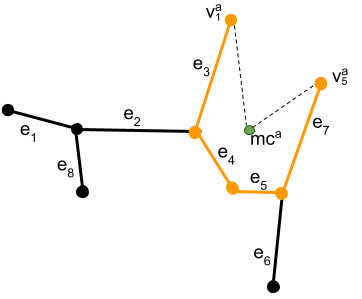
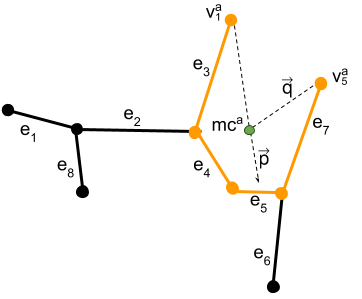
3.2.4 terminada, pero criterio de desplazamiento puede necesitar revision

diff --git a/modelo.tex b/modelo.tex
@@ -80,6 +80,8 @@ Se ha establecido en la secci\'on \ref{sec:OptiMethods} que una red de filamento
 %comportamiento de las hormigas se puede asemejar a la forma en que los filamentos fueron creciendo o decreciendo.
 La b\'usqueda de conjuntos de aristas adyacentes para individualizar uno o m\'as filamentos implica examinar un espacio de soluciones que no es posible de recorrer en tiempo polinomial, dado que sin restricciones las combinaciones crecen exponencialmente\cite{buchin2007number}\cite{biswas2012hamiltonian}. La metaheur\'istica ACO permite en sus distintas etapas (Construcci\'on de soluci\'on, b\'usqueda no local, actualizaci\'on de feromonas) incorporar informaci\'on que puede acotar el espacio de b\'usqueda. En el caso de la individualizaci\'on de filamentos, las diversas caracter\'isticas asociadas a las aristas, as\'i como las caracter\'isticas que definen el comportamiento global de un filamento permiten realizar esta tarea. 
 
+%En relaci\'on a los dominios $D_i$ declarados en la definici\'on del modelo de un COP, se destaca que en el caso de la individualizaci\'on de filamentos existe solo $D_1 \in D$, ya que la instanciaci\'on de variables ($X_i = v_{i}^{j}$ o $c_{ij}$) tiene una sola asignaci\'on posible, lo que lleva a una simplificaci\'on del componente $j$ en las ecuaciones presentadas.
+
 \subsection{Inicializaci\'on de la metaheur\'istica ACO}
 
 En el paso de inicializaci\'on de ACO se deben definir los valores de los par\'ametros relacionados a las heur\'isticas y de las feromonas utilizadas. Una de las caracter\'isticas m\'as relevantes para discriminar aristas en el proceso de construcci\'on corresponde al \'angulo que forman 2 aristas adyacentes.
@@ -206,7 +208,7 @@ Por \'ultimo en este aspecto, y a diferencia del uso tradicional de feromonas o 
 
 %Existen $N + 1$ segmentos en $s$ si la soluci\'on contiene $N$ elementos $c_{ij} \in ]\theta, 90]$ (de calidad intermedia). 
 Lo anterior permite definir que la penalizaci\'on de $\tau_{ij}$ este asociada a la arista $c_{ij}$ y al segmento que precede a $c_{ij}$ en el recorrido de una hormiga $a$. El segmento que precede a $c_{ij}$ en un camino $s$ se define como $seg^{a}_{prev}$. Adicionalmente, se tiene que entre distintos caminos pueden existir segmentos equivalentes, lo que sucede en el caso de que contengan las mismas aristas. Esto permite que se refieran al mismo valor $\tau_{ij}$ a pesar de los nombres relativos al camino al que pertenecen. El funcionamiento del m\'etodo de penalizaci\'on propuesto se visualiza en la Figura \ref{fig:segmentComplexCase}.
- \begin{figure*}[ht]
+ \begin{figure*}[t!]
     \centering
     \begin{subfigure}[t]{0.48\textwidth}
         \centering
@@ -262,7 +264,7 @@ Para subsanar aquel caso, a los segmentos de s\'olo una arista se le a\~naden la
 %explicar q la penalizacion es solo necesaria en soluciones de calidad intermedia
 
 
- \begin{figure*}[ht]
+ \begin{figure*}[t]
     \centering
     \begin{subfigure}[t]{0.48\textwidth}
         \centering
@@ -309,7 +311,10 @@ La anti-feromona se aplica sobre hormigas que han finalizado su recorrido, cuya 
 El an\'alisis adicional se separa en evaluaciones comunes que no dependen de la c\'elula observada, agregando posteriormente las evaluaciones particulares. El conjunto de evaluaciones comunes consisten en evaluar la curvatura del recorrido, como tambi\'en la magnitud del desplazamiento entre la proyecci\'on de un segmento con respecto a un segmento adyacente. La evaluaci\'on particular se ejecuta si la c\'elula es una neurona, debido a que se requiere de una verificaci\'on particular, validando que la finalizaci\'on del recorrido no sea en una arista con uno de sus nodos con grado 1. Es decir, esta arista final no debe cumplir con el primer criterio de la heur\'istica de asignaci\'on de aristas iniciales, descrita en la secci\'on \ref{subsubsec:antTourInit}.
 
 
-La curvatura del recorrido de una hormiga $a$ es el \'angulo formado por el nodo inicial ($v^{a}_1$), el centro de masa de la misma hormiga ($mc^{a}$) y el nodo final ($v^{a}_n$). Este \'angulo no debe superar el umbral definido al multiplicar el \'angulo $\theta$ por el factor {\it Max\_Axial\_Displacement}. Este factor permite flexibilizar la tolerancia de la curvatura en base a $\theta$. Si el recorrido de la hormiga tiene un \'angulo igual o mayor al umbral, implica que la soluci\'on encontrada es demasiado curva para representar un filamento, por lo que es penalizada y descartada. Un ejemplo se puede observar en la Figura \ref{fig:antCurvCase}, con el camino formado por las aristas $e_3$, $e_4$, $e_5$ y $e_7$, que presenta una curvatura muy marcada, por lo que es penalizado y descartado. La actualizaci\'on del valor de $\tau_{ij}$ mediante el criterio de curvatura se refleja en la ecuaci\'on \eqref{eq:antiPheroSAP_Angle}.
+La curvatura del recorrido de una hormiga $a$ se obtiene al calcular el \'angulo entre la proyecci\'on de un vector con respecto a otro. Estos vectores, definidos como $\Vec{p}$ y $\Vec{q}$, se generan a partir del nodo inicial del camino, $v^{a}_1$, el centro de masa de la misma hormiga, $mc^{a}$, y el nodo final, $v^{a}_n$. Corresponden a $\Vec{p}$ los 2 primeros elementos menciondos, mientras que para $\Vec{q}$ son los 2 \'ultimos.  
+
+
+El \'angulo entre la proyecci\'on de $\Vec{p}$  y $\Vec{q}$ no debe superar el umbral definido al multiplicar el \'angulo $\theta$ por el factor {\it Max\_Axial\_Displacement}. Este factor permite flexibilizar la tolerancia de la curvatura en base a $\theta$. Si el recorrido de la hormiga tiene un \'angulo igual o mayor al umbral, implica que la soluci\'on encontrada es demasiado curva para representar un filamento, por lo que es penalizada y descartada. Un ejemplo se puede observar en la Figura \ref{fig:antCurvCase}, con el camino formado por las aristas $e_3$, $e_4$, $e_5$ y $e_7$, que presenta una curvatura muy marcada, por lo que es penalizado y descartado. La actualizaci\'on del valor de $\tau_{ij}$ mediante el criterio de curvatura se refleja en la ecuaci\'on \eqref{eq:antiPheroSAP_Angle}.
 %\begin{equation}
 %    \label{eq:antiPheroSAP_Angle}
 %    \tau_{ij} \leftarrow \tau_{ij} \cdot \gamma \quad \forall \langle c_{ij},seg_{n}\rangle > \textrm{Max\_Axial\_Displacement}
@@ -318,7 +323,7 @@ La curvatura del recorrido de una hormiga $a$ es el \'angulo formado por el nodo
 \begin{equation}
     \tau_{ij} \leftarrow
         \begin{cases}
-        \tau_{ij} \cdot \gamma \text{ si } \measuredangle((v^{a}_1, mc^{a}), (mc^{a}, v^{a}_n)) \geq \theta \cdot \text{Max\_Axial\_Displacement},\\[3ex]
+        \tau_{ij} \cdot \gamma \text{ si } \measuredangle(proy(\Vec{p}), \Vec{q}) \geq \theta \cdot \text{Max\_Axial\_Displacement},\\[3ex]
         
         \text{0 si } \tau_{ij} \leq 0.25, \\[3ex]
         \tau_{ij} \quad \text{en otro caso.}
@@ -326,67 +331,84 @@ La curvatura del recorrido de una hormiga $a$ es el \'angulo formado por el nodo
     \label{eq:antiPheroSAP_Angle}
 \end{equation}
 
-\begin{figure*}[ht]
+\begin{figure}[h]
     \centering
-    \begin{subfigure}[t]{0.48\textwidth}
+    \includegraphics[scale=0.8]{imagenes/ant_curvature_case.png}
+    \caption{Curvatura de un camino de una hormiga $a$ que contiene las aristas $e_1$, $e_3$, $e_4$ y $e_7$. $\Vec{p}$ es la proyecci\'on del vector formado por $v^{a}_1$ y $mc^{a}$. $\Vec{q}$ es el vector formado por $mc^{a}$ y $v^{a}_5$. Para cumplir con el rriterio de curvatura, el \'angulo entre la proyecci\'on de $\Vec{p}$ y $\Vec{q}$ debe ser menor a $\theta \times Max\_Axial\_Displacement$ para no descartar la soluci\'on. }
+    \label{fig:antCurvCase}
+\end{figure}
+
+\begin{figure*}[t]
+    \centering
+    \begin{subfigure}[t]{0.45\textwidth}
         \centering
-        \includegraphics[height=2.5in]{imagenes/ant_curvature_case.png}
-        \caption{Camino de una hormiga $a$ que contiene las aristas $e_3$, $e_4$ y $e_5$.}
-        \label{fig:antCurvCase}
-    \end{subfigure}%
-    ~ \hspace{0.5cm}
-    \begin{subfigure}[t]{0.48\textwidth}
-        \centering
-        \includegraphics[height=2.5in]{imagenes/ant_segments_complex_case_B2.png}
-        \caption{Penalizaci\'on del camino de la hormiga $a$ en la arista $e_5$ con respecto al segmento $seg^{a}_2$ conformado solo por la arista $e_4$.}
-        \label{fig:antMaxDispl}
+        \includegraphics[height=2.5in]{imagenes/ant_segmentMagnitude_case.png}
+        \caption{Soluci\'on $b$ cumple con el criterio de curvatura, pero la proporci\'on de la magnitud entre los segmentos $seg^{b}_2$ y $seg^{b}_1$ con respecto a su \'angulo puede indicar que no es una buena soluci\'on.}
+        \label{fig:antCurvNotEnough}
     \end{subfigure}
-    \caption{. Fuente: Elaboraci\'on Propia.}
-    \label{fig:pheromonCriteria}
+    ~ \hspace{0.5cm}
+    \begin{subfigure}[t]{0.45\textwidth}
+        \centering
+        \includegraphics[height=2.5in]{imagenes/ant_segmentMagnitude_case_2.png}
+        \caption{An\'alisis del desplazamiento del segmento $seg^{b}_2$ con respecto a la proyecci\'on del $seg^{b}_1$ denota un giro brusco y pronunciado que podr\'ia no respetar la rigidez de algunos tipos de filamentos.}
+        \label{fig:antMaxDisplExample}
+    \end{subfigure}%
+    \caption{Criterio de magnitud y pronunciaci\'on del desplazamiento entre 2 segmentos contiguos. (a) El criterio de curvatura puede no ser suficiente por si mismo para descartar todas las soluciones de mala calidad. (b) La informaci\'on a priori respecto a la rigidez de un filamento permite descartar soluciones que presenten cambios demasiado pronunciados entre los segmentos que la conforman. Fuente: Elaboraci\'on Propia.}
+    \label{fig:antMaxDisp}
 \end{figure*}
 
 %agregar referencia? tindemans rod straightness \cite{hawkins2010model} of MTs o 
-El an\'alisis respecto a la magnitud del desplazamiento entre la proyecci\'on de un segmento en relaci\'on a los segmentos que lo preceden se fundamenta en la rigidez que algunos tipos de filamentos como los microt\'ubulos y los filamentos de actina poseen\cite{stam2017filament}. 
+El an\'alisis respecto a la magnitud del desplazamiento entre la proyecci\'on de un segmento en relaci\'on a sus segmentos vecinos se fundamenta en la rigidez que algunos tipos de filamentos como los microt\'ubulos y los filamentos de actina poseen\cite{stam2017filament}. El criterio de m\'aximo desplazamiento entre segmentos contiguos consiste en limitar la magnitud del movimiento que representa un segmento en relaci\'on al \'angulo que forma con sus segmentos adyacentes. Esto permite descartar soluciones que respeten el criterio de curvatura, pero que presentan movimientos pronunciados que sobrepasan la rigidez esperada de un filamento. En el caso 
 
-%El criterio de rigidez consiste en analizar los segmentos con respecto a la totalidad de sus predecesores, comenzando por el \'ultimo segmento recorrido por la hormiga, es decir, desde el extremo final de la soluci\'on. A partir de cada par de $<$segmento,segmentos$_$predecesores$>$, $\langle seg_{n}$,$seg_{1,n-1}\rangle$, se debe seleccionar el miembro del par de mayor longitud, definido como $s_{max} = \max(\norm{seg_{n}}, \norm{seg_{1,n-1}})$, para calcular el \'angulo suplementario que forma con respecto al otro miembro del par, definido como $s_{min}$. El \'angulo suplementario, $\measuredangle supl(s_{max},s_{min})$ es el equivalente a calcular el \'angulo entre la proyecci\'on de $s_{max}$ y $s_{min}$.
-
-Luego $s_{min}$ es multiplicado por el seno del \'angulo suplementario, estableciendo el desplazamiento con respecto al eje que forma $s_{max}$ y su proyecci\'on. El umbral que delimita al desplazamiento calculado previamente se define como el m\'ultiplo de $s_{max}$ por 10\% de {\it Max\_Axial\_Displacement}. 
-
-Si el \'angulo suplementario es menor a $\theta$, se puede declarar que se cumple el criterio de rigidez. Lo anterior se refleja en la ecuaci\'on \eqref{eq:antiPheroSAP_Axial}. 
+%El criterio de rigidez consiste en analizar los segmentos con respecto a la totalidad de sus predecesores, comenzando por el \'ultimo segmento recorrido por la hormiga, es decir, desde el extremo final de la soluci\'on. 
+A partir de cada par de segmentos vecinos en una soluci\'on, se  selecciona el segmento de mayor longitud, el que servir\'a para determinar cual es el movimiento proyectado con respecto al movimiento reflejado por el segmento de menor longitud. Se define el segmento m\'as largo entre ambos segmentos comparados en un camino $a$ como $seg^{a}_{iMax}$ , mientras que el segmento menor es $seg^{a}_{jMin}$. El \'angulo entre $seg^{a}_{jMin}$ y la proyecci\'on de $seg^{a}_{iMax}$ se define como 
+$\measuredangle seg^{a}_{pMaxMin}$ por simplicidad. En el caso de que el \'angulo $\measuredangle seg^{a}_{pMaxMin}$ este en el rango $[0, \theta]$ se entiende que se respeta el criterio de m\'aximo desplazamiento.
 
 
-%Esta propiedad puede ser utilizada para delimitar como un segmentos de una hormiga se relacionan con el resto de la soluci\'on, ya que estos ser\'ia un reflejo indirecto de los movimientos din\'amicos de un filamento en el tiempo, capturados en un punto a trav\'es de una imagen. 
-%La rigidez de un filamento puede describirse mediante la relaci\'on que existe entre un segmento de una hormiga, con respecto a todos los segmentos que lo preceden. 
+Si el \'angulo es mayor a $\theta$, se espera que la magnitud del segmento menor $seg^{a}_{jMin}$ multiplicada por el seno de $\measuredangle seg^{a}_{pMaxMin}$ sea menor al umbral que delimita al desplazamiento m\'aximo entre segmentos, definido como el m\'ultiplo de $seg^{a}_{iMax}$ por el 10\% de {\it Max\_Axial\_Displacement}. Lo anterior se ilustra en la Figura \ref{fig:antMaxDisp}, y se describe la actualizaci\'on de $\tau_{ij}$ en la ecuaci\'on \ref{eq:antiPheroSAP_Axial}.
+
+% como $s_{max} = \max(\norm{seg_{n}}, \norm{seg_{1,n-1}})$, para calcular el \'angulo suplementario que forma con respecto al otro miembro del par, definido como $s_{min}$. El \'angulo suplementario, $\measuredangle supl(s_{max},s_{min})$ es el equivalente a calcular el \'angulo entre la proyecci\'on de $s_{max}$ y $s_{min}$.
+
 \begin{equation}
     \tau_{ij} \leftarrow
         \begin{cases}
         \begin{split}
-         \tau_{ij} \cdot \gamma \text{ si } & \sin(\measuredangle supl(s_{max},s_{min}) > s_{min} \cdot 0.1 \cdot \text{Max\_Axial\_Displacement} \\ & \land \measuredangle supl(s_{max},s_{min}) > \theta    
+         \tau_{ij} \cdot \gamma \text{ si } & \sin(\measuredangle seg^{a}_{pMaxMin}) > seg^{a}_{iMax} \cdot 0.1 \cdot \text{Max\_Axial\_Displacement} \\ & \land \measuredangle seg^{a}_{pMaxMin}) > \theta,
         \end{split}
         \\[3ex]
         
-        \text{0 si } \tau_{ij} \leq 0.25 \\[3ex]
-        \tau_{ij} \quad \text{en otro caso}
+        \text{0 si } \tau_{ij} \leq 0.25, \\[3ex]
+        \tau_{ij} \quad \text{en otro caso}.
         \end{cases}
     \label{eq:antiPheroSAP_Axial}
 \end{equation}
 
-Si ambas evaluaciones son completadas correctamente y no existen evaluaciones particulares para la c\'elula observada, se declara a la soluci\'on como de buena calidad para un camino que representa un filamento. A diferencia de los filamentos de otras c\'elulas incluidas en este trabajo, el comportamiento esperado de los filamentos en una neurona permite caracterizar los lugares desde los cuales nuevos filamentos pueden generarse. Esta informaci\'on adicional se incorpora mediante la evaluaci\'on particular de un recorrido en una neurona, buscando validar el comportamiento esperado de un filamento, en relaci\'on a que los filamentos de una neurona parten del {\tt soma} o centro de la misma, y que filamentos posteriores que no comiencen del soma s\'olo pueden nacer a partir de otros filamentos. Un camino que termine en un nodo final de grado de 1 no respeta aquel comportamiento, debido a que en un grafo que representa una red de filamentos de una neurona, los nodos ubicados en el soma o en la intersecci\'on entre filamentos presentan un grado mayor a 1. La penalizaci\'on mediante la anti-feromona para este caso particular se refleja en la ecuaci\'on \ref{eq:antiPheroSAP_neuron}.
+%Luego $s_{min}$ es multiplicado por el seno del \'angulo suplementario, estableciendo el desplazamiento con respecto al eje que forma $s_{max}$ y su proyecci\'on. El umbral que delimita al desplazamiento calculado previamente se define como el m\'ultiplo de $s_{max}$ por 10\% de {\it Max\_Axial\_Displacement}. 
+
+%Si el \'angulo suplementario es menor a $\theta$, se puede declarar que se cumple el criterio de rigidez. Lo anterior se refleja en la ecuaci\'on \eqref{eq:antiPheroSAP_Axial}. 
+
+
+%Esta propiedad puede ser utilizada para delimitar como un segmentos de una hormiga se relaciona con el resto de la soluci\'on, ya que estos ser\'ia un reflejo indirecto de los movimientos din\'amicos de un filamento en el tiempo, capturados en un punto a trav\'es de una imagen. 
+%La rigidez de un filamento puede describirse mediante la relaci\'on que existe entre un segmento de una hormiga, con respecto a todos los segmentos que lo preceden. 
+
+
+
+Si un camino cumple con ambas criterios de penalizaci\'on comunes, y se trata de una c\'elula distinta a una neurona, la soluci\'on avanza hac\'ia el an\'alisis del m\'etodo de b\'usqueda no local. En cambio, si la c\'elula observada es una neurona, corresponde aplicar el criterio espec\'ifico a esta c\'elula. Este criterio adicional se fundamente en que el comportamiento esperado de los filamentos en una neurona permite caracterizar los lugares desde los cuales nuevos filamentos pueden generarse. As\'i, es necesario validar que los filamentos de una neurona parten del {\tt soma} o centro de la misma, y que filamentos posteriores que no comiencen del soma s\'olo pueden nacer a partir de otros filamentos. Un camino que termine en un nodo final de grado de 1 no respeta aquel comportamiento, debido a que en un grafo que representa una red de filamentos de una neurona, los nodos ubicados en el soma o en la intersecci\'on entre filamentos presentan un grado mayor a 1. La penalizaci\'on al valor de $\tau_{ij}$ para este caso particular se refleja en la ecuaci\'on \ref{eq:antiPheroSAP_neuron}.
 
 \begin{equation}
     \tau_{ij} \leftarrow
         \begin{cases}
-         \tau_{ij} \cdot \gamma \text{ si } deg(n_{af}) = 1  \\[3ex]
+         \tau_{ij} \cdot \gamma \text{ si } deg(v^{a}_{n}) = 1,  \\[3ex]
         
-        \text{0 si } \tau_{ij} \leq 0.25 \\[3ex]
-        \tau_{ij} \quad \text{en otro caso}
+        \text{0 si } \tau_{ij} \leq 0.25, \\[3ex]
+        \tau_{ij} \quad \text{en otro caso}.
         \end{cases}
     \label{eq:antiPheroSAP_neuron}
 \end{equation}
 
 %Finalmente, la ecuaci\'on \eqref{eq:antiPheroSAP} refleja la aplicaci\'on de las {\it anti-feromonas} sobre el par $\langle c_{ij}$,$ seg_{n}\rangle \forall c_{ij} \in ]\theta, Max\_Angle]$  donde $c_{ij} \in seg_{n+1}$, y cuya elecci\'on dio lugar a $seg_{n+1}$ que se aleja del desplazamiento axial m\'aximo que un filamento puede soportar.
 
-En relaci\'on a los dominios $D_i$ declarados en la definici\'on del modelo de un COP, se destaca que en el caso de la individualizaci\'on de filamentos existe solo $D_1 \in D$, ya que la instanciaci\'on de variables ($X_i = v_{i}^{j}$ o $c_{ij}$) tiene una sola asignaci\'on posible, lo que lleva a una simplificaci\'on del componente $j$ en las ecuaciones presentadas.
+
 
 \subsection{M\'etodo de b\'usqueda no local}
 Una vez que la hormiga termina un camino o {\it tour}, es posible agregar un m\'etodo de retroalimentaci\'on sobre la calidad del recorrido realizado, basado en l\'ogicas globales/centralizadas que escapan de la b\'usqueda local que realiza cada hormiga. El o los m\'etodos en esta etapa permite extender la l\'ogica con respecto a una metaheur\'istica ACO, y son opcionales, por lo que no siempre son utilizados. 
